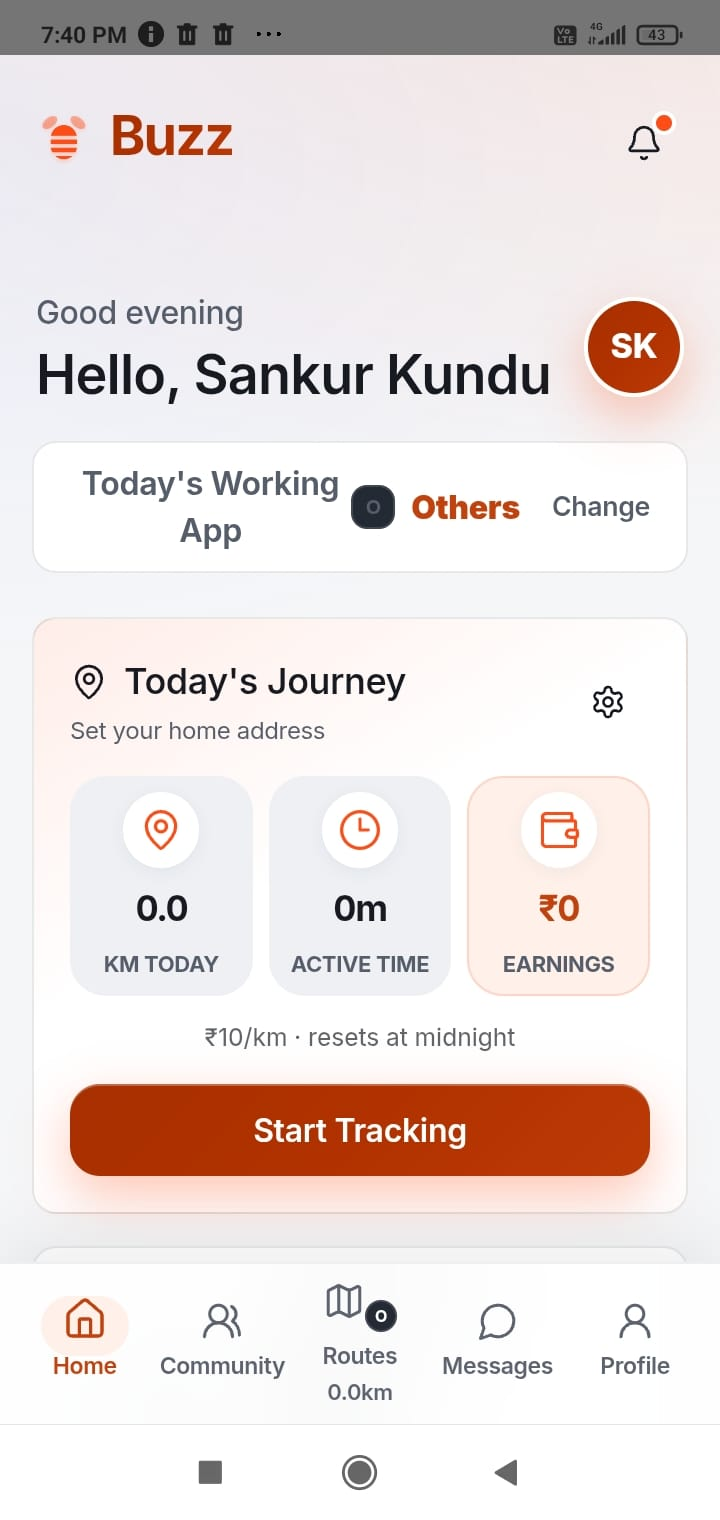
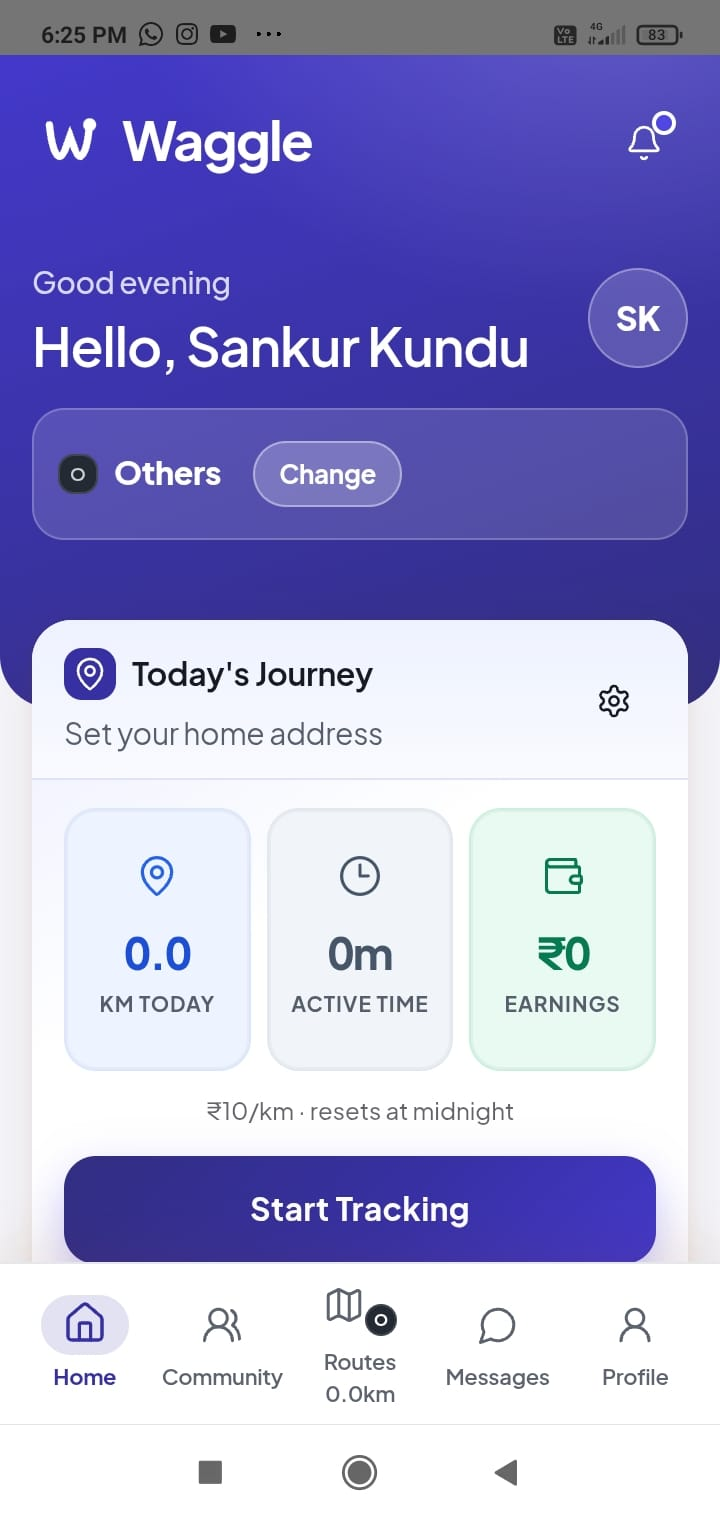
site: real screenshots, from the shipping app on a real phone
Both sites had been reading "Waggle" above pictures of the orange Buzz build
from 14-19 August. These are the current app on an actual device: the W mark,
the indigo palette, rupees, and the Indian work-app list (Ola, Rapido, Swiggy,
Zomato, Blinkit, Zepto, BigBasket, Dunzo).

They came off the same handset as the originals — 720x1520 to the pixel — so
they are drop-in replacements needing no crop or resample.

Alt text corrected to match what is actually in the frames, which matters more
than usual here because the images changed underneath it:

  "showing streets and rider positions"     the map shot has no riders on it;
                                            it is the Friends panel with an
                                            empty state, over Cuttack
  "posts from other drivers"                the feed shot has one post, from
                                            the account holder
  "a ready-to-record trip panel"            not what this frame shows

Alt text that describes an image the page no longer contains is worse than
none: a screen reader gets a confident description of something that is not
there.

The map frame is worth keeping for its own sake — it is a real phone rendering
vector tiles over Cuttack, which is the fix for the blank basemap confirmed on
hardware rather than in a desktop browser.

diff --git a/docs/index.html b/docs/index.html
@@ -448,7 +448,7 @@ input[type=range] {
         <p class="hero-note rv">Version 1.0 · Android 7.0 and later · 8.2&nbsp;MB · free, with no ads</p>
       </div>
       <div class="rv" style="position:relative">
-        <div class="phone"><img src="shots/home.jpg" alt="The Waggle home screen, showing today's distance, active time and earnings, with a Start Tracking button." width="310" height="672" loading="eager"></div>
+        <div class="phone"><img src="shots/home.jpg" alt="The Waggle home screen, showing today's distance, active time and earnings in rupees, with a Start Tracking button." width="310" height="672" loading="eager"></div>
         <!-- Chips repeat things the app genuinely shows, so the page is not
              promising behaviour the product does not have. -->
         <div class="chip a"><i></i>Tracking · 12.4 km</div>
@@ -533,7 +533,7 @@ input[type=range] {
           default, not something you have to go and configure.</p>
         </div>
         <div class="feature-media rv">
-          <div class="phone"><img class="hexable" src="shots/map.jpg" alt="The routes map showing streets and rider positions." loading="lazy"></div>
+          <div class="phone"><img class="hexable" src="shots/map.jpg" alt="The Waggle map, showing streets around Cuttack with the Friends panel open." loading="lazy"></div>
         </div>
       </div>
 
@@ -547,7 +547,7 @@ input[type=range] {
           yourself, or delete for everyone.</p>
         </div>
         <div class="feature-media rv">
-          <div class="phone"><img src="shots/community.jpg" alt="The community feed showing posts from other riders." loading="lazy"></div>
+          <div class="phone"><img src="shots/community.jpg" alt="The Waggle community feed." loading="lazy"></div>
         </div>
       </div>
     </div>
